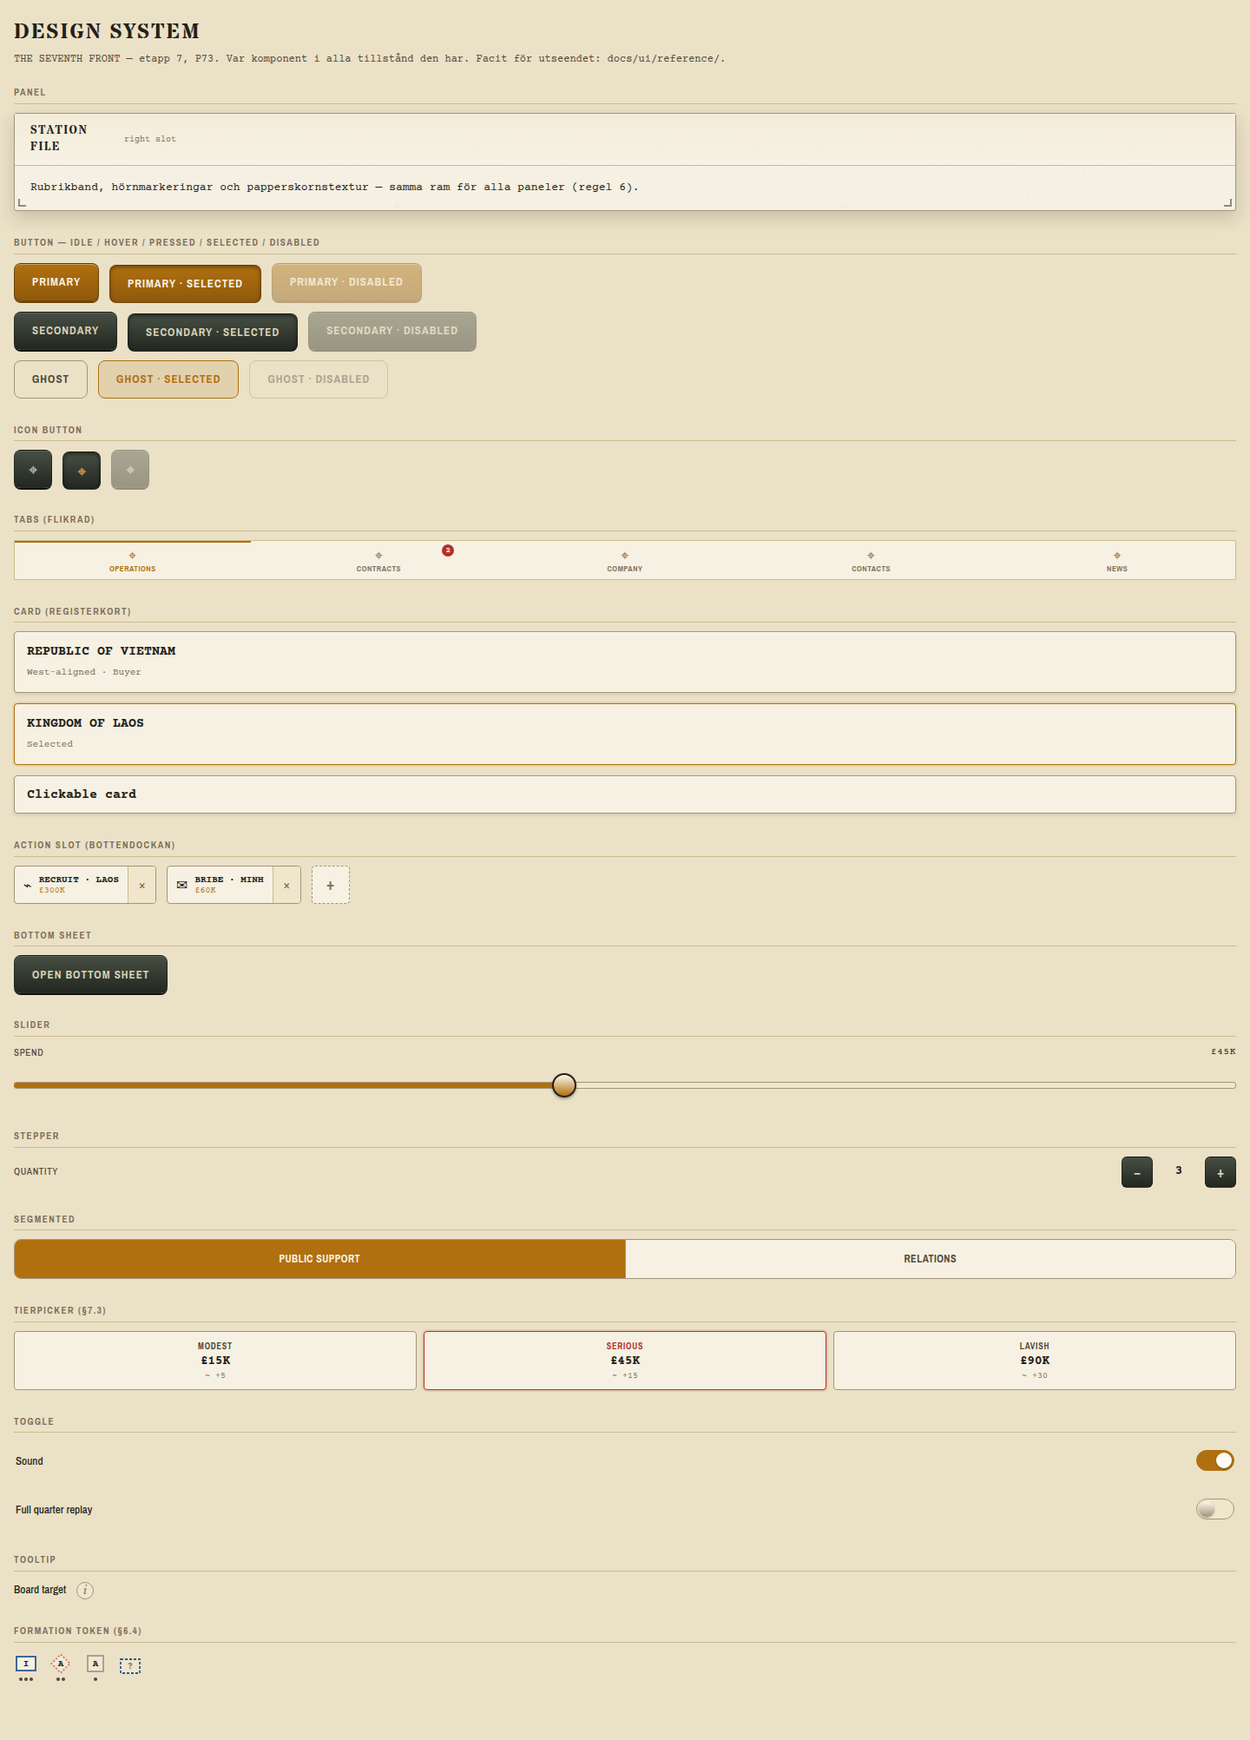
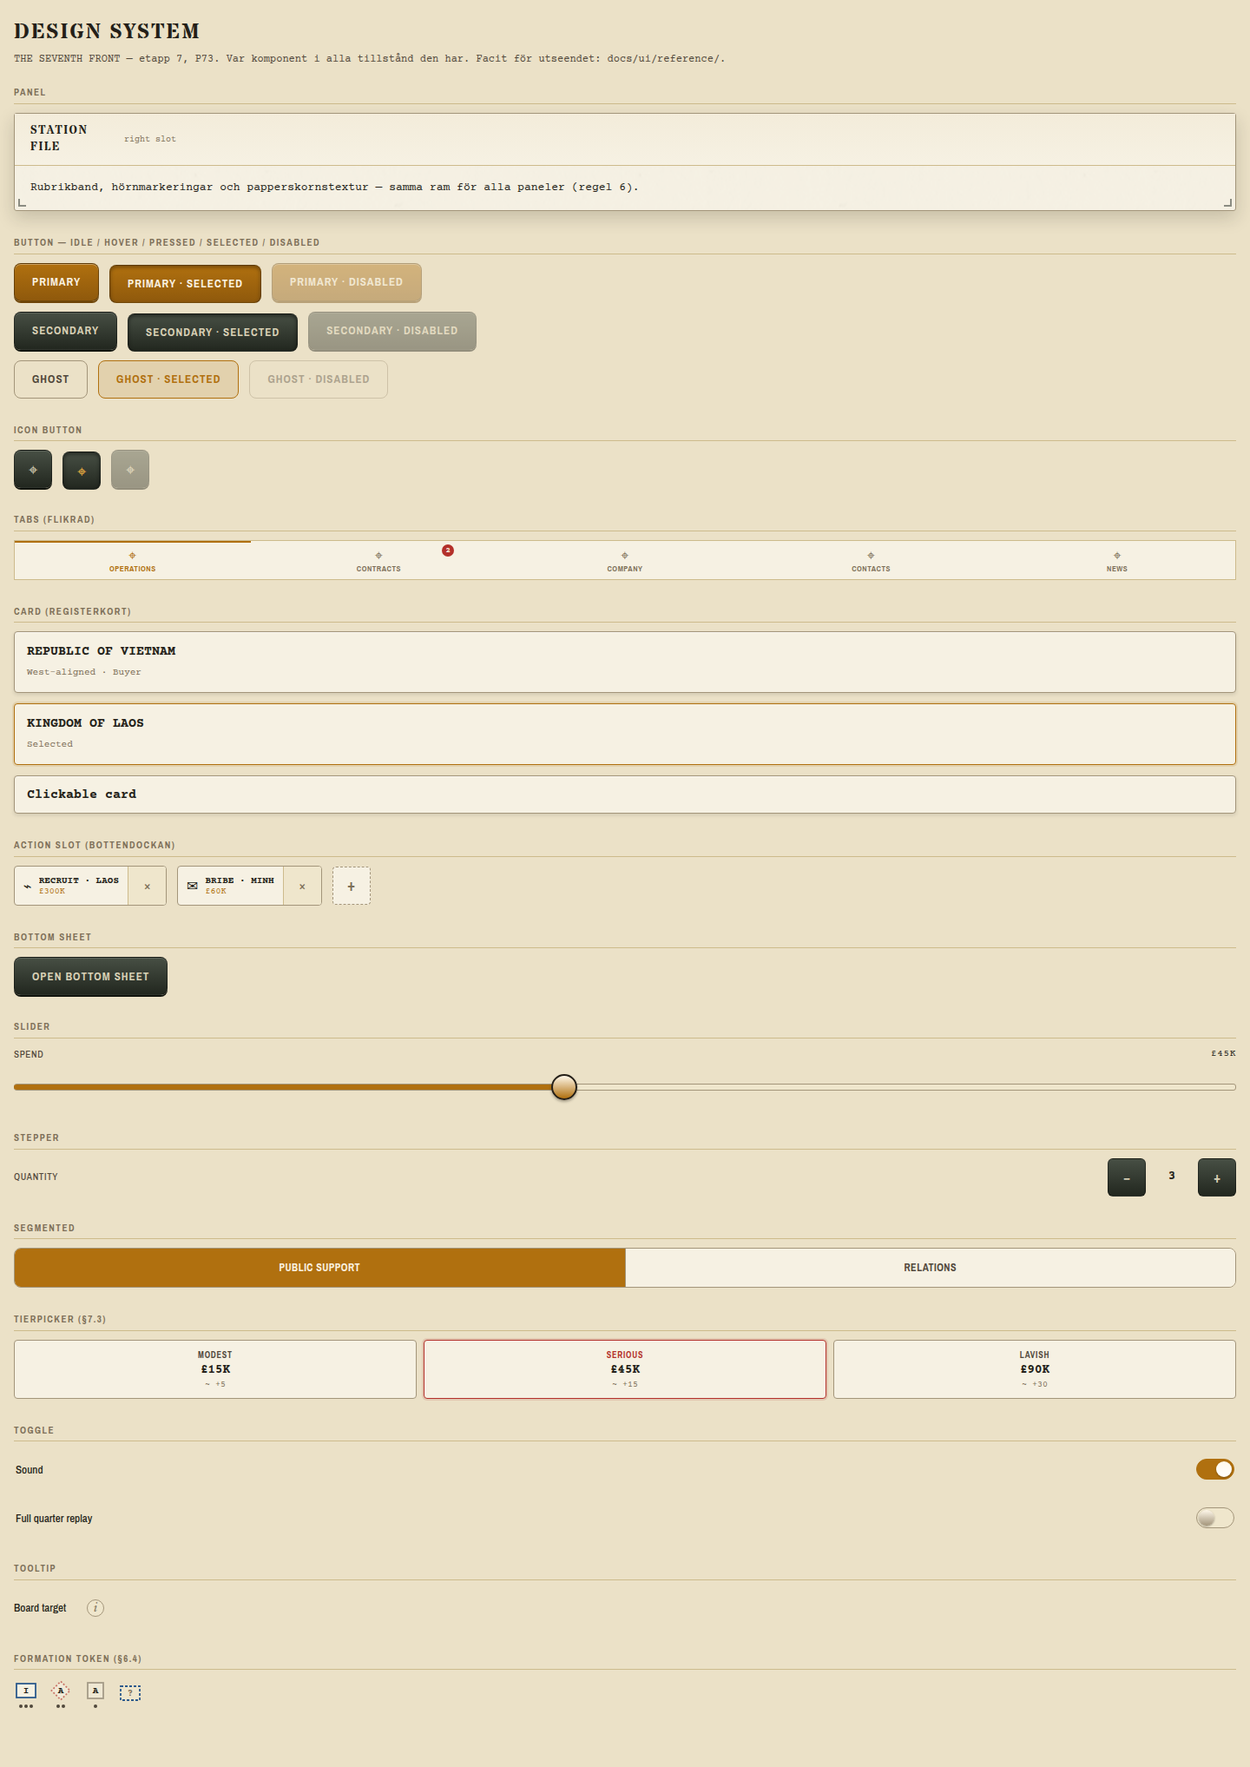
P73 klar: UI-regler, typsnitt och designsystem
Fixade de kvarstående träffytorna från WIP-läget (e0d63db):
tooltip-cirkeln, stepper-knapparna, bottenarkets grepphandtag,
handlingsplatsens ×-knapp och sliderns grepp — samtliga fick en 44×44
klickbar ruta med en mindre synlig markör inuti. Ett sjätte fall
(.ds-action-slot, border-box gav 42px netto i stället för 44) hittades
av det egna CI-testet.

Fullt testsvep grönt: 527 tester, lint, typecheck, build×3, e2e (sex
tester, körd två gånger i rad — regel 18 textklippning och regel 11
träffytor båda gröna i telefon- och skrivbordsformat). npm run shots
omkört, komponentsidans skärmdumpar uppdaterade i docs/ui/current/.

Dokumentation i samma commit: ETAPP7_TEKNISK_SPEC.md §13:s P73-blockquote,
ny rad i ANDRINGSLOGG.md, CLAUDE.md:s etapp 7-stycke.

P73 är därmed klar enligt startpromptens steg 4. Fortsätter med P74
(skärmskalet och helskärms-PWA) per ägarens uttryckliga instruktion att
fortsätta med de nästa två punkterna efter P73.

Claude-Session: https://claude.ai/code/session_01HPWpBqFKLxCRMu2YsxqYgR

diff --git a/packages/app/src/styles.css b/packages/app/src/styles.css
@@ -1710,9 +1710,12 @@ td.is-key {
 /* ── ActionSlot (§7.2) ─────────────────────────────────────────────── */
 
 .ds-action-slot {
+  /* Regel 11: de STRÄCKTA barnen (huvudknappen, ×-knappen) är de faktiska
+     träffytorna — 46 px yttre höjd ger 44 px netto sedan den 1 px breda
+     kanten (border-box) räknats bort på varje sida. */
   display: flex;
   align-items: stretch;
-  min-height: 44px;
+  min-height: 46px;
   background: var(--panel);
   border: 1px solid var(--line-strong);
   border-radius: 4px;
@@ -1768,9 +1771,10 @@ td.is-key {
   color: var(--amber);
 }
 .ds-action-slot-remove {
+  /* Regel 11: träffytor minst 44×44 px. */
   appearance: none;
-  width: 32px;
-  min-width: 32px;
+  width: 44px;
+  min-width: 44px;
   background: var(--panel-sunken);
   border: none;
   border-left: 1px solid var(--line);
@@ -1810,14 +1814,17 @@ td.is-key {
   max-height: 92vh;
 }
 .ds-sheet-handle {
+  /* Regel 11: träffytan är 44 px hög (greppstapeln ritas smal, 4 px, centrerad
+     i den — samma "liten synlig, stor klickyta"-princip som slider-greppet). */
   appearance: none;
+  width: 100%;
+  min-height: 44px;
   background: transparent;
   border: none;
-  padding: 8px 0 4px;
   display: flex;
+  align-items: center;
   justify-content: center;
   cursor: pointer;
-  min-height: 24px;
 }
 .ds-sheet-grip {
   width: 40px;
@@ -1910,10 +1917,24 @@ td.is-key {
   pointer-events: none;
 }
 .ds-slider-thumb {
+  /* §7.3: "ett greppområde på minst 44 px" — den KLICKBARA rutan är 44×44
+     (regel 11), den synliga knappen ritas mindre via ::before så den inte
+     ser överdimensionerad ut mot det tunna spåret. */
   position: absolute;
-  width: 28px;
-  height: 28px;
-  margin-left: -14px;
+  width: 44px;
+  height: 44px;
+  margin-left: -22px;
+  display: flex;
+  align-items: center;
+  justify-content: center;
+  background: transparent;
+  border: none;
+  border-radius: 50%;
+}
+.ds-slider-thumb::before {
+  content: '';
+  width: 26px;
+  height: 26px;
   border-radius: 50%;
   background: linear-gradient(180deg, #fff8ea, var(--amber));
   border: 2px solid var(--ink);
@@ -1945,10 +1966,12 @@ td.is-key {
   gap: 6px;
 }
 .ds-stepper-btn {
+  /* Regel 11: träffytor minst 44×44 px. */
   appearance: none;
-  width: 36px;
-  height: 36px;
-  min-width: 36px;
+  width: 44px;
+  height: 44px;
+  min-width: 44px;
+  min-height: 44px;
   border-radius: 6px;
   background: linear-gradient(180deg, var(--steel-light), var(--steel));
   color: var(--steel-ink);
@@ -2107,10 +2130,23 @@ td.is-key {
   display: inline-block;
 }
 .ds-tooltip-trigger {
+  /* Regel 11: träffytan är 44×44, den synliga "i"-cirkeln (.ds-tooltip-dot)
+     ritas mindre inuti — samma princip som slider-greppet/bottenarkets handtag. */
   appearance: none;
+  width: 44px;
+  height: 44px;
+  min-width: 44px;
+  min-height: 44px;
+  display: inline-flex;
+  align-items: center;
+  justify-content: center;
+  background: transparent;
+  border: none;
+  cursor: pointer;
+}
+.ds-tooltip-dot {
   width: 20px;
   height: 20px;
-  min-width: 20px;
   border-radius: 50%;
   background: var(--panel-sunken);
   border: 1px solid var(--line-strong);
@@ -2119,7 +2155,9 @@ td.is-key {
   font-style: italic;
   font-size: 12px;
   line-height: 1;
-  cursor: pointer;
+  display: flex;
+  align-items: center;
+  justify-content: center;
 }
 .ds-tooltip-bubble {
   position: absolute;

diff --git a/packages/app/src/components/designSystem.tsx b/packages/app/src/components/designSystem.tsx
@@ -526,7 +526,9 @@ export function InfoTooltip({ text }: { text: string }) {
         onClick={() => setOpen((v) => !v)}
         onBlur={() => setOpen(false)}
       >
-        i
+        <span className="ds-tooltip-dot" aria-hidden="true">
+          i
+        </span>
       </button>
       {open && (
         <span className="ds-tooltip-bubble" role="tooltip" id={id}>

diff --git a/docs/ANDRINGSLOGG.md b/docs/ANDRINGSLOGG.md
@@ -289,3 +289,4 @@ Regeln: en ändrad spec utan rad här är samma sak som ingen ändring.
 | 2026-09-22 | **Riktig menybakgrund + app-ikon/favicon inkopplade (docs/GRAFISKA_TILLGANGAR.md §1/§2)** | Ägaren genererade två av de tre AI-bildprompterna (Gemini) och laddade upp dem till grenen. Menybakgrunden (1376×768 JPG, 112 KB) sparad som `packages/app/public/images/menu-backdrop.jpg`; `.menu-backdrop` (`styles.css`) fick bilden PLUS en mörk `linear-gradient`-scrim i samma `background-image`-egenskap (55→94 % svart topp→botten) så `.menu-content` (centrerat, inte bara nedre tredjedelen) garanterat kontrasterar oavsett exakt fotoinnehåll — ingen `MainMenu.tsx`-ändring behövdes, kroken fanns redan. App-ikonen (kompassrosen) kom liggande 1376×768 med märket centrerat i stället för den begärda kvadratiska duken — center-beskuren till 768×768 (Pillow) och skalad till `favicon-32.png`/`favicon-64.png`/`app-icon-180.png`/`app-icon-512.png` (den sista oanvänd, sparad för en framtida PWA-manifest); `index.html` fick riktiga `<link rel="icon">`/`apple-touch-icon`-rader i stället för den tidigare tomma data-URI-platshållaren. Tredje bilden (papperskornstexturen) avvisades av Gemini vid första försöket ("jag verkar inte ha tillgång till det innehållet") — omskriven som ett konkret fotomotiv i stället för en teknisk texturspec, se GRAFISKA_TILLGANGAR.md §3, inte genererad än. Manuellt verifierat i en riktig Chromium-körning: alla fyra bildfilerna svarar 200, noll konsolfel, texten läsbar över fotot. Golden ORÖRD — ren `packages/app`-presentation. Fullt testsvep grönt (527 tester, lint, typecheck, build×3, e2e körd två gånger) | docs/GRAFISKA_TILLGANGAR.md §1/§2, "Klart 2026-09-22"-blockquoterna |
 | 2026-09-22 | **Papperskornstexturen inkopplad (docs/GRAFISKA_TILLGANGAR.md §3) — leveransen komplett** | Ägarens omgenererade bild (Gemini, den omskrivna fotomotiv-prompten) hade en synlig vinjettering (mörkare kanter/hörn) i stället för en helt jämn yta. Löst utan externt tileringsverktyg: center-beskuren (Pillow) till en 345×345-kvadrat vars hörn- och centermedelvärde mättes ligga inom två gråtoner av varandra -- utanför vinjetteringen -- och skalad till `packages/app/public/images/paper-grain.png` (512×512, gråskala). Ny kodkrok byggd (fanns ingen tidigare): `.panel::before` (`styles.css`) -- ett pseudo-element i stället för en extra JSX-nod i `ui.tsx`s delade `Panel`-komponent, så ändringen stannar i CSS. `background-repeat: repeat`, `opacity: 0.05` (mitten av dokumentets eget ≤4-6 %-krav, en bokstavlig CSS-opacitet), `pointer-events: none`. Manuellt verifierat i en riktig Chromium-körning (full vy och en inzoomad panelbeskärning): kornet syns vid närgranskning, stör aldrig läsbarheten, noll konsolfel. Golden ORÖRD -- ren CSS. Fullt testsvep grönt (527 tester, lint, typecheck, build×3, e2e körd två gånger). Samtliga tre tillgångar i `docs/GRAFISKA_TILLGANGAR.md` är därmed genererade och inkopplade -- leveransen komplett | docs/GRAFISKA_TILLGANGAR.md §3, "Klart 2026-09-22"-blockquoten |
 | 2026-09-22 | **Beslut, ägaren — etapp 7 antagen, `docs/ETAPP7_TEKNISK_SPEC.md`, "Spelbordet"** | Specen (version 1.3) godkänd via `docs/ETAPP7_STARTPROMPT.md`. Premisskontroll (§0) körd först och verifierad ordagrant mot koden innan antagandet: 22 verb i `PlayerAction`-unionen (5 INTERNAL + 6 IntelOp + 8 PoliticalOp + 1 BROKER + 2 MARKET, räknat direkt i `types.ts`), varav noll av de 14 "saknade" verben (RECRUIT/EXPAND/WITHDRAW/LEAK/SABOTAGE/TURN/FUND_CAMPAIGN/FAVOUR/INFLUENCE/FUND_COUP/ASSASSINATE/BROKER/BUY_FORWARD/RELEASE) förekommer någonstans i `packages/app/src` (grep, noll träffar) -- FUND_CAMPAIGN/FAVOUR finns bara i `TheHouse.tsx`s `describeAction`-etikettfunktion, ingen skapande form, exakt specens egen fotnot; `doomsdayPeak` (kommentar "för RESTRAINT i epilogen") och `WIRE_WINDOW_TURNS = 8` finns redan, ingen epilogmekanik gör det; `min-height: 100vh`, `<select>`/`input[type=number]` i `BidForm.tsx`/`TheHouse.tsx`, och `vite.config.ts`s oförändrade "PWA-plugin läggs till i P12"-kommentar (aldrig löst in) bekräftar alla tre §0.5:s strukturella fynd. Inget avvek -- fortsatt utan att fråga, enligt startpromptens egen instruktion. Tio ägarbeslut antagna (§2, A-J), samtliga enligt förslagets egna rekommendationer: (A) kartan blir geografisk (Natural Earth, SVG/d3-geo/d3-zoom, inget taktiskt lager, oförändrat ur `DESIGN.md` §21); (B) kartan (OPERATIONS) blir huvudskärmen, övriga skärmar öppnas därifrån; (C) handlingar startar i världen, formulären tas bort; (D) rendering: SVG + d3-geo + d3-zoom, ingen kart- eller spelmotor om inte prestandabudgeten i §12 bryts; (E) epilogen byggs på en ny `GameState.chronicle`-krönika, golden fryses om i en enda prompt (P89); (F) **förbandsförflyttning UPPSKJUTEN** -- P75 lägger ett stillhetsmått i härnessen först, beslutet tas på det underlaget före breddningen i 7C, inte här; (G) flikarna döps om (THE WORLD/FLOOR/HOUSE/POLITICS/WIRE -> OPERATIONS/CONTRACTS/THE COMPANY/CONTACTS/NEWS DESK), bara vad spelaren ser, komponentfilerna rörs inte; (H) etappen byggs som en vertikal skiva (Sydvietnam i slutlig kvalitet, 7B) innan den breddas i 7C; (I) primär plattform mobil först, 390x844 stående, skrivbordet en uppskalning -- installerbar helskärms-PWA flyttad till P74; (J) nytt visuellt register, "det fysiska krigsrummet 1965" (papperskarta, acetat och fettkrita, manillamappar, skrivmaskin, bakelit, Dymo-etiketter) ersätter etapp 6:s mörka, "futuristiskt läsande" palett -- tre referensskisser (OPERATIONS i tre tillstånd) redan godkända av ägaren 2026-09-22 och incheckade i `docs/ui/reference/`. Regelavsnittet §3 (arton spelgränssnittsregler: ingen sidscroll, inga webbläsarkontroller, fyra interaktionstillstånd, rörelse på allt som ändras, ikoner, gemensam panelram, mobil först, träffytor >=44px, säkra områden, `npm run shots` varje UI-prompt, automatiskt CI-test mot överlappande/klippt text m.fl.) läggs som ett eget avsnitt i `CLAUDE.md` i en egen commit. Specens statusrad ändrad till "Antagen 2026-09-22". `docs/etapp7-paket.zip` (ägarens uppladdning) packades upp till sina riktiga sökvägar i en tidigare commit samma dag. P73 är nästa steg | `docs/ETAPP7_STARTPROMPT.md` steg 1-3, ordagrant. `CLAUDE.md`, "Om specen och verkligheten inte stämmer": en ny specs antagande skrivs in i specen och som en rad här, i samma commit |
+| 2026-09-26 | **P73-implementation (ETAPP7_TEKNISK_SPEC.md §11.3/§13): UI-regler, typsnitt och designsystem** | Fyra typsnitt (@fontsource) installerade och importerade i main.tsx, ersätter systemstackarna helt. styles.css:s :root-token omskrivna till §10:s palett -- hexvärden hämtade direkt ur de tre godkända referensskissernas inline-SVG. Tokennamnen oförändrade sedan etapp 6, bara värdena bytta -- undviker att röra varenda anropsplats i de fyra befintliga vyerna. Ny designSystem.tsx: samtliga femton §11.3-komponenter (Panel, Button, IconButton, DsTab, Card, ActionSlot, BottomSheet, Slider, Stepper, Segmented, TierPicker, Toggle, InfoTooltip, FormationToken), egen .ds-*-namnrymd skild från de äldre klasserna. Ny ComponentLibrary.tsx nådd via ?screen=components i App.tsx. Fem komponenter hade ursprungligen för små träffytor (tooltip-cirkeln, stepper-knapparna, bottenarkets grepphandtag, handlingsplatsens ×-knapp, sliderns grepp) -- lösta genomgående med "klickbar ruta 44x44, synlig markör mindre inuti"-principen. Ett sjätte, subtilare fall (.ds-action-slot, border-box-matematik gav 42px netto i stället för 44) hittades av det egna CI-testet, inte av mig. npm run shots (scripts/shots.mjs, nytt) renderar komponentsidan i telefon-/skrivbordsformat plus de tre referensskisserna till docs/ui/current/ -- Node 22:s inbyggda fetch avvisade de först valda portarna ("bad port"), löst med node:http i stället. e2e/text-overflow.spec.ts (nytt): regel 18 (textklippning) och regel 11 (träffytor) i CI, båda format. Manuellt verifierat i en riktig Chromium-körning. Golden ORÖRD. Fullt testsvep grönt (527 tester, lint, typecheck, build×3, e2e sex tester körd två gånger) | ETAPP7_TEKNISK_SPEC.md §13:s P73-rad, ordagrant klart-när (samtliga fyra villkor) |

diff --git a/docs/ETAPP7_TEKNISK_SPEC.md b/docs/ETAPP7_TEKNISK_SPEC.md
@@ -515,6 +515,53 @@ En prompt per commit. Varje UI-prompt har samma villkor utöver sina egna: regle
 
 **P73 — UI-regler, typsnitt och designsystem.** §3 in i `CLAUDE.md`. Paketerade typsnitt. Komponentbiblioteket ur §11.3 på en egen komponentsida, byggt för tryck först. `npm run shots` i båda formaten; skriptet renderar även `docs/ui/reference/*.html` till PNG i telefonformat, så att referens och bygge kan jämföras sida vid sida. *Klart när:* komponentsidan fotograferad på telefon och skrivbord, varje komponent visad i alla tillstånd, alla träffytor minst 44 px; testet för överlappande och klippt text (regel 18) finns och körs i CI; paletten och typsnitten ur §10 har ersatt de gamla.
 
+> **Klart 2026-09-26.** Fyra typsnitt (`@fontsource/archivo-narrow` 500/600/700,
+> `courier-prime` 400/700, `stardos-stencil` 400/700, `libre-baskerville` 400/400-italic)
+> installerade och importerade i `main.tsx` — ersätter systemstackarna helt (§0.5:s eget fynd:
+> "ingen service worker fanns" gjorde den gamla offline-motiveringen grundlös). `styles.css`s
+> `:root`-token omskrivna till paletten ur §10 — hexvärden hämtade direkt ur de tre godkända
+> referensskissernas inline-SVG (grep, inte gissat): krämvitt papper `#ebe1c7`, manilla
+> `#f6f1e3`, sepiabläck `#241f18`, ockra `#b0700f` (telexgults arvtagare), fettkrita röd
+> `#b3302a`/blå `#2d5a8c`, lackerad stål `#11140e`–`#8b917f`. Tokennamnen AVSIKTLIGT
+> oförändrade sedan etapp 6 (`--bg`, `--amber`, `--west` m.fl.) — bara värdena bytta, för att
+> undvika att röra varenda `var(--amber)`/`tone="amber"`-anropsplats i de fyra befintliga
+> vyerna utan att något klart-när-villkor kräver det.
+>
+> Ny fil `designSystem.tsx` — samtliga femton komponenter ur §11.3 (Panel, Button, IconButton,
+> DsTab, Card, ActionSlot, BottomSheet, Slider, Stepper, Segmented, TierPicker, Toggle,
+> InfoTooltip, FormationToken), egen `.ds-*`-namnrymd skild från de äldre `.panel`/`.btn`/`.tab`-
+> klasserna (som de fyra befintliga vyerna fortsätter använda oförändrat till P76+). Ny
+> `ComponentLibrary.tsx`, nådd via `?screen=components` (`App.tsx`, avgjort INNAN `useGame()`
+> anropas — stabilt över en session, aldrig en reaktiv växling). Fem komponenter hade
+> ursprungligen för små träffytor (tooltip-cirkeln 20×20, stepper-knapparna 36×36, bottenarkets
+> grepphandtag, handlingsplatsens ×-knapp 32 px bred, sliderns grepp 28×28 — §7.3 kräver
+> uttryckligen "minst 44 px") — lösta med samma princip genomgående: den KLICKBARA rutan blir
+> 44×44, den SYNLIGA markören ritas mindre inuti via ett nested element eller `::before`, så
+> inget ser överdimensionerat ut. Ett sjätte, subtilare fall hittades av det egna CI-testet:
+> `.ds-action-slot`s `min-height: 44px` gav bara 42 px NETTO åt de sträckta barnen eftersom
+> `border-box` räknar bort den 1 px breda kanten på varje sida — höjt till 46px.
+>
+> `npm run shots` (`scripts/shots.mjs`, nytt) startar appens devserver + en egen liten statisk
+> server för `docs/ui/reference/`, renderar komponentsidan i telefon- (390×844, pekskärm
+> emulerad) och skrivbordsformat (1440×900) samt de tre referensskisserna till PNG i
+> telefonformat, allt till `docs/ui/current/`. Node 22:s inbyggda `fetch` (undici) avvisade
+> flera av de först valda utvecklingsportarna rakt av ("bad port", samma spärrlista webbläsare
+> använder) — väntan på att devservern startat gjordes om med `node:http` i stället, som saknar
+> den spärren.
+>
+> `e2e/text-overflow.spec.ts` (nytt): regel 18 (textklippning, `scrollWidth > clientWidth` på
+> varje block-liknande element med egen direkt textnod) och regel 11 (träffytor, samtliga
+> `button`/`a[href]`/`[role=slider|switch|radio|tab]` ≥44×44 px) — båda i båda formaten, körda i
+> CI. Kartkollisionsdelen av regel 18 (etikett-/markörkollisioner) hör till P76, ingen karta
+> finns än. Skärmlistan är avsiktligt kort (bara komponentsidan) — växer i takt med fler
+> etapp 7-skärmar.
+>
+> Manuellt verifierat i en riktig Chromium-körning (skärmdumpar, telefon och skrivbord):
+> samtliga femton komponenter läsbara i alla tillstånd, typsnitten laddar, paletten matchar
+> referensskisserna. Golden ORÖRD — `packages/core` orört, ren `packages/app`-presentation.
+> Fullt testsvep grönt: 527 tester, lint, typecheck, build×3, e2e (sex tester, körd två gånger
+> i rad). Se `docs/ANDRINGSLOGG.md`.
+
 **P74 — Skärmskalet och helskärms-PWA.** Fast viewport, ingen sidscroll, säkra områden. OPERATIONS-layouten för telefon ur §5 med platshållare, skrivbordsvarianten ovanpå. Flikrad med ikoner och nya namn (§2G). Bottenark. Övergångar mellan skärmar. HUD som instrumentpanel med räknande tal. Manifest och service worker enligt §10. *Klart när:* e2e grönt i telefonformat; spelet kan läggas på hemskärmen och startar i helskärm i stående läge; ingen `<select>` eller sifferfält synligt på de skärmar som byggts om; fem-sekunderstestet på en telefonbild.
 
 **P75 — Stillhetsmått i härnessen.** Per tur och parti: antal sektorer som bytt sida, frontrörelse, förband som bytt status, faktioner som bytt alignment, tjänstemän som ersatts. Ingen ändring i `core`. *Klart när:* CSV med måtten för 500 partier; ägaren tar beslut 2F på underlaget.

diff --git a/CLAUDE.md b/CLAUDE.md
@@ -293,8 +293,16 @@ skrivmaskin, bakelit, Dymo-etiketter) som ersätter etapp 6:s mörka telexgula p
 vertikal skiva (Sydvietnam, slutlig kvalitet, 7B) innan den breddas (7C–7E). Tre referensskisser
 för OPERATIONS (kartans huvudvy) ligger godkända i `docs/ui/reference/`. Premisskontrollen (§0)
 verifierad ordagrant mot koden vid antagandet — se `docs/ANDRINGSLOGG.md` för hela protokollet
-(besluten A–J, F uppskjutet till efter P75). **Läs specens egna avsnitt för den prompt du kör
-innan du börjar** — den är skriven för att följas ordagrant, inte för att tolkas.
+(besluten A–J, F uppskjutet till efter P75). **P73 BYGGD 2026-09-26** (7A:s första prompt):
+UI-regler, fyra paketerade typsnitt (@fontsource), paletten ur §10 (krämvitt papper, ockra,
+fettkrita) ersätter etapp 6:s mörka telexgula i `styles.css`s `:root`-token — samma tokennamn,
+nya värden. Nytt komponentbibliotek (`designSystem.tsx`, samtliga femton komponenter ur §11.3)
+på en egen sida (`ComponentLibrary.tsx`, `?screen=components`). `npm run shots` (nytt) och
+`e2e/text-overflow.spec.ts` (regel 18 textklippning + regel 11 träffytor, båda i CI) byggda.
+Golden ORÖRD. Se `docs/ETAPP7_TEKNISK_SPEC.md` §13:s P73-blockquote och `docs/ANDRINGSLOGG.md`
+för hela genomförandet, inklusive sex komponenter vars träffytor fick fixas till ≥44×44 px.
+**Läs specens egna avsnitt för den prompt du kör innan du börjar** — den är skriven för att
+följas ordagrant, inte för att tolkas.
 
 ## Spelgränssnitt — regler (etapp 7)
 
